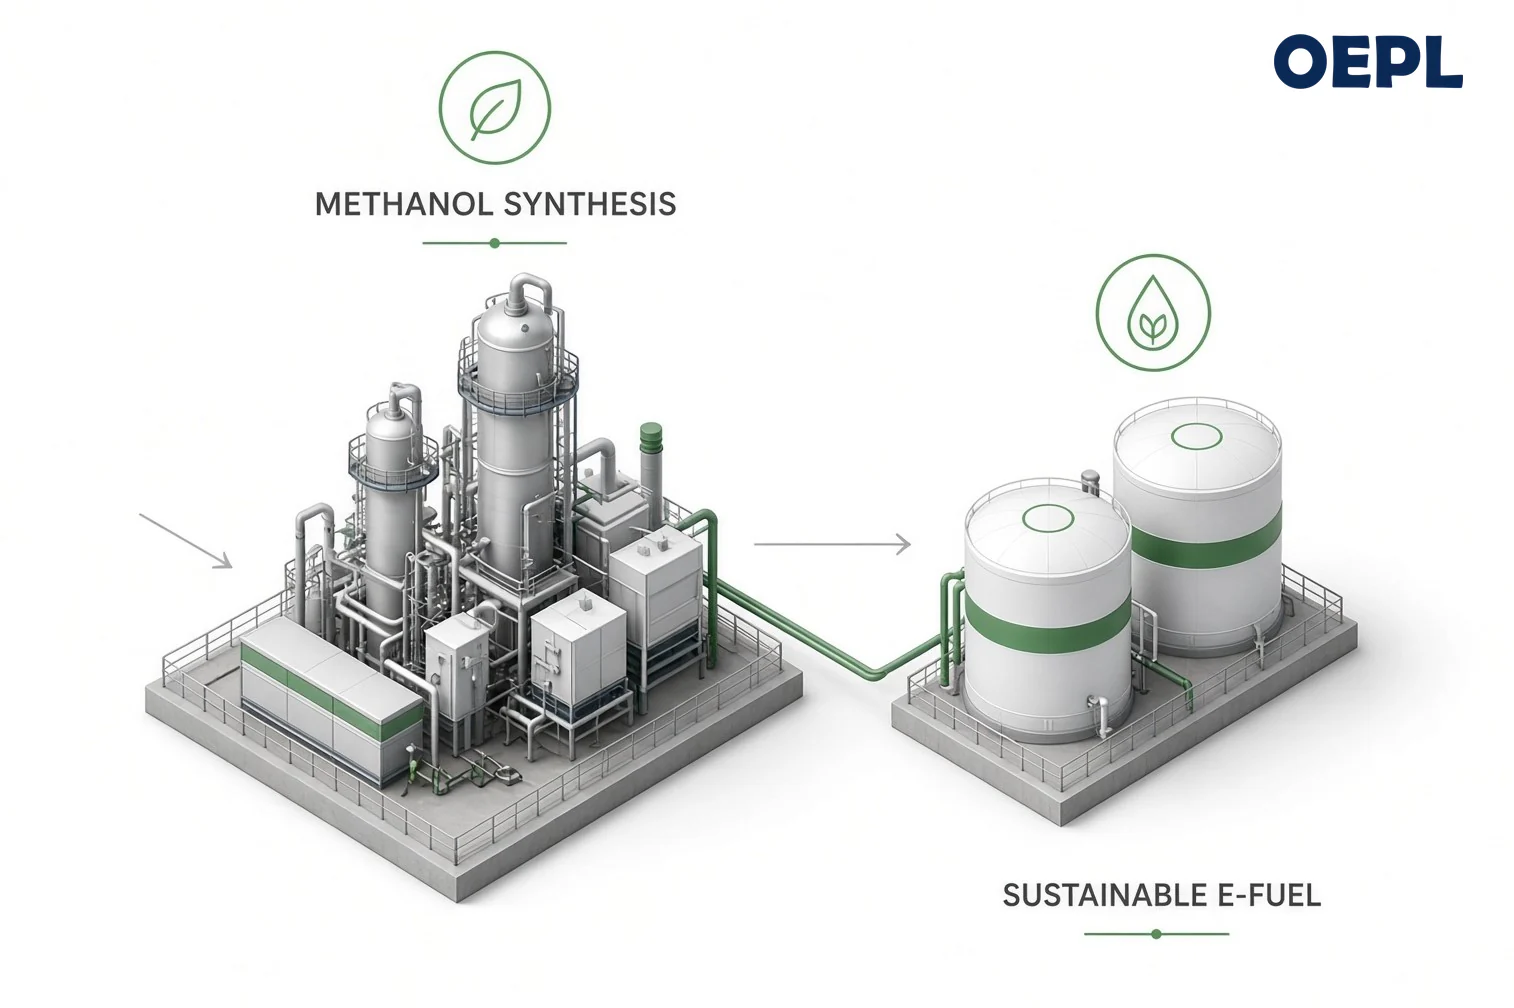
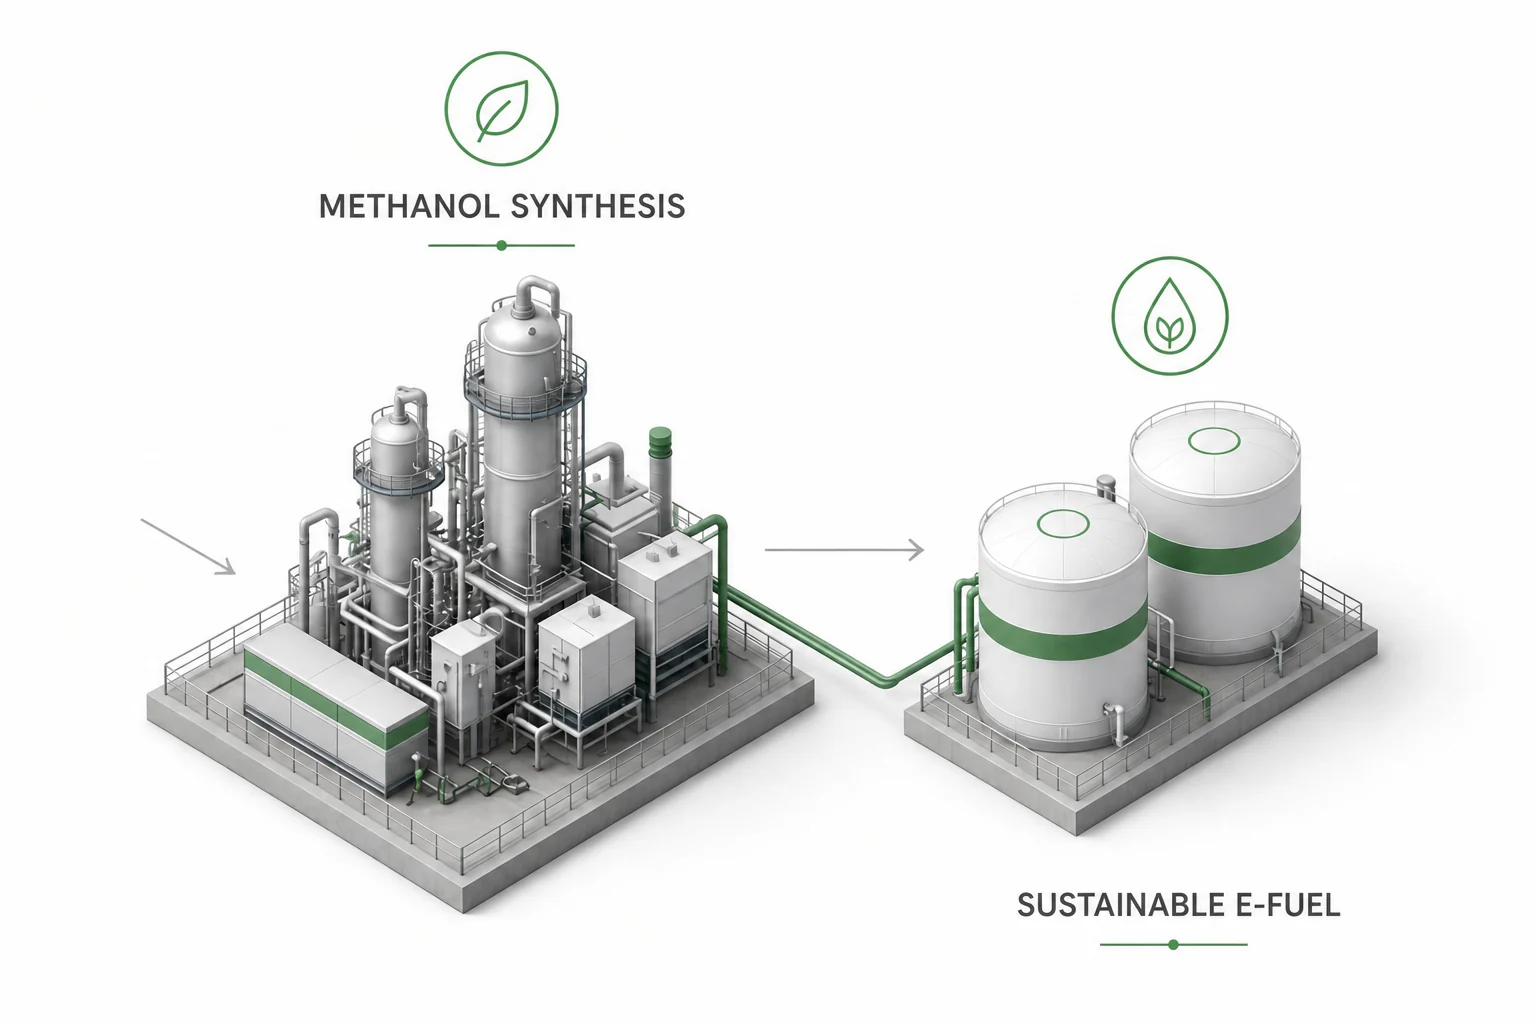
Enhance hero highlights and refine quote spacing

diff --git a/client/src/features/home/components/hero/HeroContent.jsx b/client/src/features/home/components/hero/HeroContent.jsx
@@ -65,10 +65,10 @@ const HeroContent = () => {
             className="mt-4 flex flex-wrap items-baseline gap-x-2 text-[clamp(1.05rem,4.8vw,2.2rem)] font-medium leading-tight tracking-[-0.02em] text-white/72 lg:mt-7 lg:text-[clamp(1.35rem,2.6vw,2.2rem)]"
           >
             <span>Building a</span>
-            <span className="relative inline-block font-semibold text-white">
+            <span className="relative inline-block rounded-sm bg-[#2fdc79]/10 px-1.5 py-0.5 font-bold text-[#67f5d0]">
               Sustainable Future
               <span
-                className="absolute -bottom-1 left-0 h-px w-full bg-linear-to-r from-[#67f5d0] via-white/60 to-transparent"
+                className="absolute -bottom-1 left-0 h-0.5 w-full bg-linear-to-r from-[#2fdc79] via-[#67f5d0] to-[#2fdc79]/20 shadow-[0_0_12px_rgba(47,220,121,.5)]"
                 aria-hidden="true"
               />
             </span>
@@ -122,7 +122,7 @@ const HeroContent = () => {
                 &ldquo;
               </span>
 
-              <p className="home-display mt-3 text-[clamp(1.2rem,4.5vw,2rem)] font-medium leading-[1.16] text-white sm:text-2xl lg:mt-5 lg:text-4xl">
+              <p className="home-display text-[clamp(1.2rem,4.5vw,2rem)] font-medium leading-[1.16] text-white sm:text-2xl lg:text-4xl">
                 Decarbonising, Decentralizing &amp; Deploying
                 <span className="mt-2 block font-semibold text-[#67f5d0] sm:mt-3">
                   Sustainable Technologies
